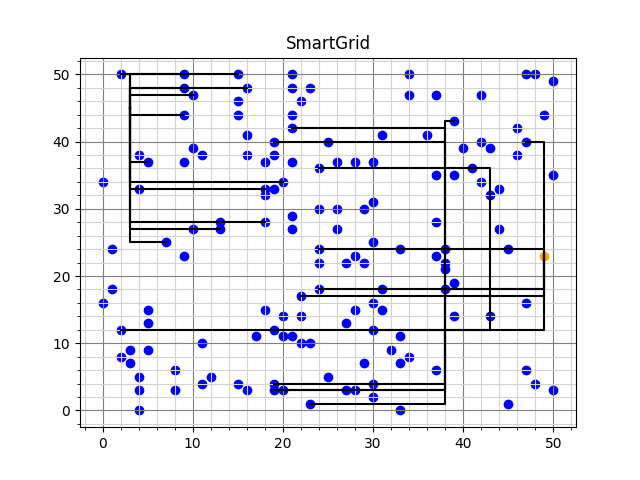
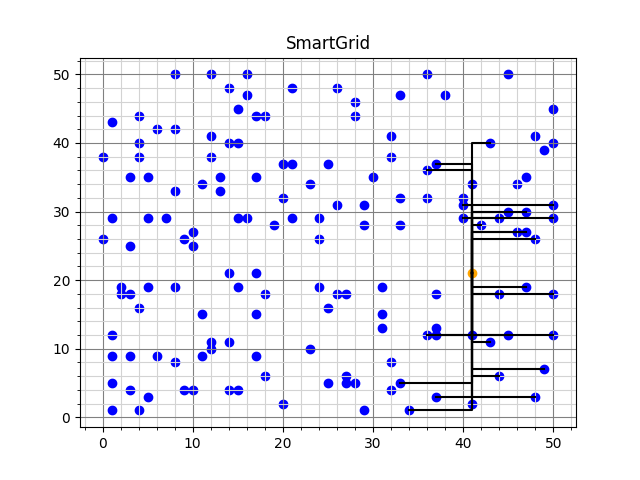
back to original baseline

Changed region(s): [[0.0625, 0.125, 0.9062, 0.875]]

diff --git a/main.py b/main.py
@@ -8,7 +8,7 @@ import pickle
 import copy
 
 if __name__ == "__main__":
-    district_number = "1"
+    district_number = "2"
 
     battery_file = (f"data/Huizen&Batterijen/district_{district_number}/district-{district_number}_batteries.csv")
     #battery_file = (f"SmartGrid/data/Huizen&Batterijen/district_{district_number}/district-{district_number}_batteries.csv")
@@ -28,23 +28,23 @@ if __name__ == "__main__":
 
     # --------------------------- baseline --------------------------
     # baseline_costs = list()
-    # baseline1 = baseline.Baseline(empty_grid)
+    # baseline1 = baseline.Baseline(grid1)
     # baseline1.run()
-    # best_base = copy.deepcopy(baseline1)
+    # # best_base = copy.deepcopy(baseline1)
 
-    # for i in range(100000):
-    #     baseline1 = baseline.Baseline(empty_grid)
+    # for i in range(100):
+    #     baseline1 = baseline.Baseline(grid1)
     #     baseline1.run()
-    #     print(f"i: {i}, cost: {best_base.grid.calc_cost()}")
+    #     # print(f"i: {i}, cost: {best_base.grid.calc_cost()}")
 
-    #     if baseline1.grid.calc_cost() < best_base.grid.calc_cost():
-    #         best_base = copy.deepcopy(baseline1)
+    #     # if baseline1.grid.calc_cost() < best_base.grid.calc_cost():
+    #     #     best_base = copy.deepcopy(baseline1)
 
-        # baseline_costs.append(baseline1.calc_cost())
-        # if baseline1.grid.is_valid():
-        #     print("hurray")
+    #     baseline_costs.append(baseline1.grid.calc_cost())
+    #     if baseline1.grid.is_valid():
+    #         print("hurray")
     
-    # visualise_costs.visualise_costs(random_costs, "random")
+    # visualise_costs.visualise_costs(baseline_costs, "random")
 
     # file_name = f"SmartGrid/data/solutions/best_baseline.pickle"
 
@@ -85,18 +85,16 @@ if __name__ == "__main__":
         if greedy2.grid.is_valid():
             count += 1
             if greedy2.grid.calc_cost() < best_cost:
-                best_grid = copy.deepcopy(greedy2.grid)
+                best_grid = greedy2.grid
                 best_cost = greedy2.grid.calc_cost()
                 print(best_cost)
         greedy2_costs.append(greedy2.grid.calc_cost())
     print(count)
     print(best_cost)
-<<<<<<< HEAD
-    for battery in best_grid.batteries.values():
-        print('houses: ', battery.houses.values())
-        print('cap left:', battery.capacity_left())
-=======
->>>>>>> 9d7b5d7c40669497af30828ee06892a6559960e4
+    # for battery in best_grid.batteries.values():
+    #     print('houses:')
+    #     for house in battery.houses.values():
+    #         print(house.id)
     visualise_costs.visualise_costs(greedy2_costs, "greedy2")
 
         # --------------------------- greedy - each house to closest battery--------------------------
@@ -146,7 +144,7 @@ if __name__ == "__main__":
     #     pickle.dump(best_greedy, handle)
 
     # --------------------------- visualisation --------------------------
-    visualise_cables.visualise_apart(best_grid)
+    visualise_cables.visualise_apart(best_grid, district_number)
 
 
     # --------------------------- Hill Climber ---------------------------------

diff --git a/code/algorithms/baseline.py b/code/algorithms/baseline.py
@@ -11,24 +11,23 @@ class Baseline:
     def __init__(self, grid):
         self.grid = copy.deepcopy(grid)
 
-    def largest_output_house(self):
-        output_houses = {}
-        for house in self.grid.houses.values():
-            output_houses[house.id] = house.max_output
+    # def largest_output_house(self):
+    #     output_houses = {}
+    #     for house in self.grid.houses.values():
+    #         output_houses[house.id] = house.max_output
 
-        output_houses = {k: v for k, v in sorted(output_houses.items(), key=lambda item: item[1], reverse=True)}    
+    #     output_houses = {k: v for k, v in sorted(output_houses.items(), key=lambda item: item[1], reverse=True)}    
         
-        return output_houses
+    #     return output_houses
 
 
     def run(self):
         random.shuffle(self.grid.houses)
-        output_houses = self.largest_output_house()
 
-        for house_id in output_houses:
-            house_output = output_houses[house_id]
+
+        for house in self.grid.houses.values():
+
             random_battery = random.choice(self.grid.batteries)
-
 
             # print(house_obj.max_output)
             # cum_max_output = 1500 * 5 = 7500
@@ -36,18 +35,18 @@ class Baseline:
             # keep picking a random battery until you've found one that has enough space
             # while random_battery.capacity_left() < house.max_output:
             
-            # while random_battery.capacity_reached():
-            #     random_battery = random.choice(self.grid.batteries)
-            while random_battery.capacity_left() < house_output:
+            while random_battery.capacity_reached():
                 random_battery = random.choice(self.grid.batteries)
-                if all(battery.capacity_left() < house_output for battery in self.grid.batteries.values()):
-                    print(random_battery.id, 'is:', random_battery.capacity_left(), 'and', house_output)
+            # while random_battery.capacity_left() < house_output:
+            #     random_battery = random.choice(self.grid.batteries)
+            #     if all(battery.capacity_left() < house_output for battery in self.grid.batteries.values()):
+            #         print(random_battery.id, 'is:', random_battery.capacity_left(), 'and', house_output)
             
-            random_battery.add_house(self.grid.houses[house_id])
-            self.grid.houses[house_id].battery = random_battery.id
-            cable1 = cable.Cable(house = self.grid.houses[house_id], battery = random_battery)
+            random_battery.add_house(house)
+            house.battery = random_battery.id
+            cable1 = cable.Cable(house = house, battery = random_battery)
             cable1.lay_cable()
-            self.grid.houses[house_id].add_cable(cable1)
+            house.add_cable(cable1)
 
             # for battery in self.grid.batteries.values():
             #     print(battery.get_cum_output())

diff --git a/code/visualisations/visualise_cables.py b/code/visualisations/visualise_cables.py
@@ -4,10 +4,10 @@ import matplotlib.pyplot as plt
 from code.classes import grid, house, battery, cable
 
 
-def visualise(grid): 
+def visualise(grid, district_number): 
 
     # load data files
-    district_number = '1'
+    district_number = district_number
     battery_file = (f"data/Huizen&Batterijen/district_{district_number}/district-{district_number}_batteries.csv")
     house_file = (f"data/Huizen&Batterijen/district_{district_number}/district-{district_number}_houses.csv")
 
@@ -48,13 +48,12 @@ def visualise(grid):
     # plt.legend()
     plt.show()
     plt.savefig("docs/cable_visualisation.png")
-<<<<<<< HEAD
 
-def visualise_apart(grid):
+def visualise_apart(grid, district_number):
         # plot battries and houses
     for battery in grid.batteries.values():
         # load data files
-        district_number = '1'
+        district_number = district_number
         battery_file = (f"data/Huizen&Batterijen/district_{district_number}/district-{district_number}_batteries.csv")
         house_file = (f"data/Huizen&Batterijen/district_{district_number}/district-{district_number}_houses.csv")
 
@@ -87,49 +86,12 @@ def visualise_apart(grid):
         elif battery.id == 4: 
             gridcolor = "gray"
 
-=======
-    
-def visualise_apart(grid):
-    # load data files
-    district_number = '1'
-    battery_file = (f"data/Huizen&Batterijen/district_{district_number}/district-{district_number}_batteries.csv")
-    house_file = (f"data/Huizen&Batterijen/district_{district_number}/district-{district_number}_houses.csv")
-
-    dfhouses = pd.read_csv(house_file)
-    dfhouses.plot(kind='scatter', x='x', y='y')
-
-    dfbatteries =  grid.batteries
-
-    # clear the figure
-    plt.clf()
-
-    # plot grid
-    plt.title('SmartGrid')
-    plt.grid(which='minor', color='lightgrey')
-    plt.grid(which='major', color='grey')
-    plt.minorticks_on()
-
-    # plot battries and houses
-    for battery in grid.batteries.values():
-        plt.scatter(battery.x, battery.y, color='orange', label = "Batteries")
-        plt.scatter(dfhouses['x'], dfhouses['y'], color='blue', label = "Houses")
-
->>>>>>> 9d7b5d7c40669497af30828ee06892a6559960e4
         # plot cables 
-        for house in battery.houses.values():
-            
+        for house in battery.houses.values():           
 
-<<<<<<< HEAD
             plt.plot(house.cable.x, house.cable.y, color=gridcolor, linestyle="-")
 
         # plt.legend()
         plt.show()
         plt.savefig(f"docs/cable_visualisation{battery.id}.png")
     
-=======
-            plt.plot(house.cable.x, house.cable.y, color="red", linestyle="-")
-
-        # plt.legend()
-        plt.show()
-        plt.savefig(f"docs/cable_visualisation{battery.id}.png")
->>>>>>> 9d7b5d7c40669497af30828ee06892a6559960e4
